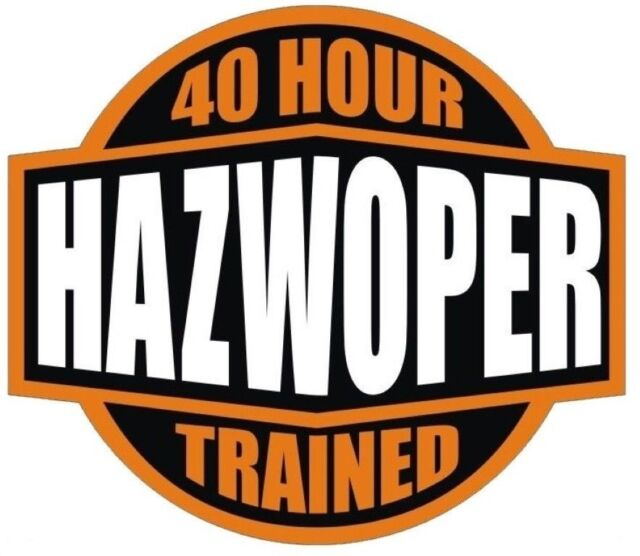
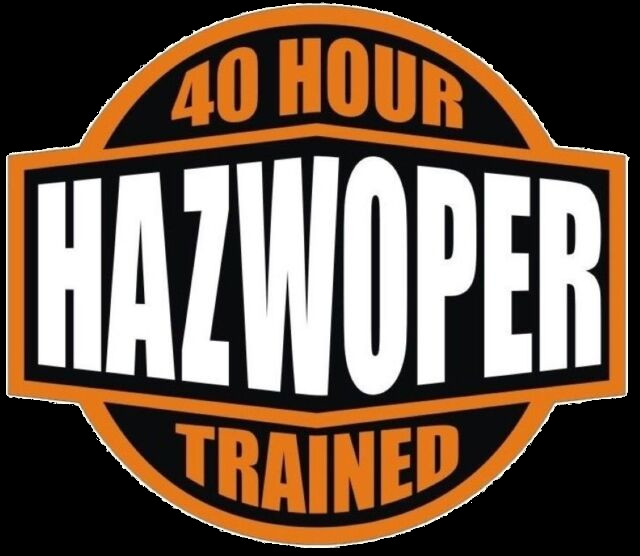
fixed links on services.html

Changed region(s): [[0.0, 0.0, 1.0, 1.0]]

diff --git a/services.html b/services.html
@@ -142,7 +142,7 @@
 
           <div class="col-lg-4 col-md-6" data-aos="fade-up" data-aos-delay="100">
 
-            <a href="">
+            <a href="storage-tank-cleaning.html">
             <div class="service-item  position-relative">
              
               <h3>Above Ground Storage Tank Cleaning</h3>
@@ -154,7 +154,7 @@
 
           <div class="col-lg-4 col-md-6" data-aos="fade-up" data-aos-delay="200">
 
-            <a href="">
+            <a href="storage-tank-cleaning.html">
             <div class="service-item position-relative">
          
               <h3>Hydro Blasting</h3>
@@ -167,7 +167,7 @@
 
           <div class="col-lg-4 col-md-6" data-aos="fade-up" data-aos-delay="300">
 
-            <a href="">
+            <a href="vaccum-truck-services.html">
             <div class="service-item position-relative">
              
               <h3>Vaccum Truck Services</h3>
@@ -225,7 +225,7 @@
 
           <div class="col-lg-4 col-md-6" data-aos="fade-up" data-aos-delay="300">
 
-            <a href="">
+            <a href="hazardous-material-cleaning.html">
             <div class="service-item position-relative">
          
               <h3>Waste Transport and Disposal</h3>

diff --git a/index.html b/index.html
@@ -407,7 +407,7 @@
           <div class="certification-item d-flex align-items-center">
 
       
-           <img src="assets/img/40hr-hazwopper-cert.jpg" class="cert-img" alt="">
+           <img src="assets/img/hazwoper cert.png" class="cert-img" alt="">
 
         
 
